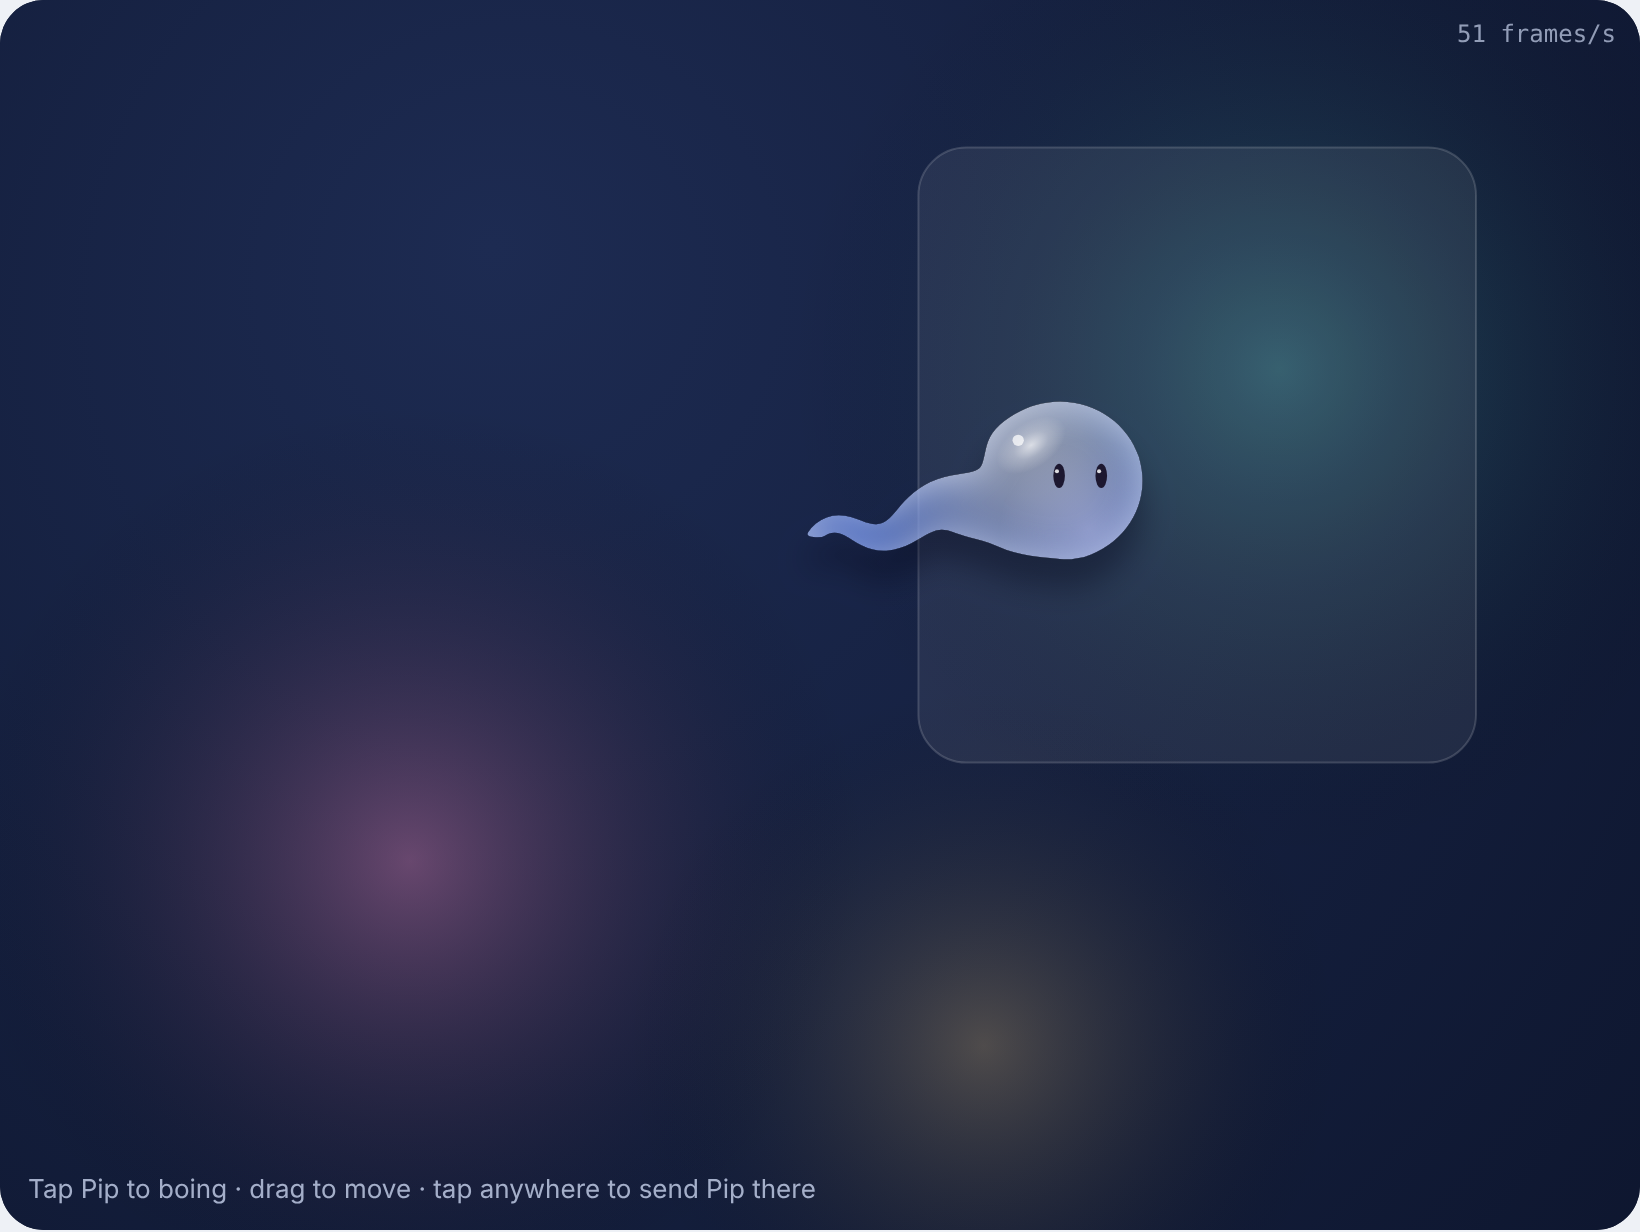
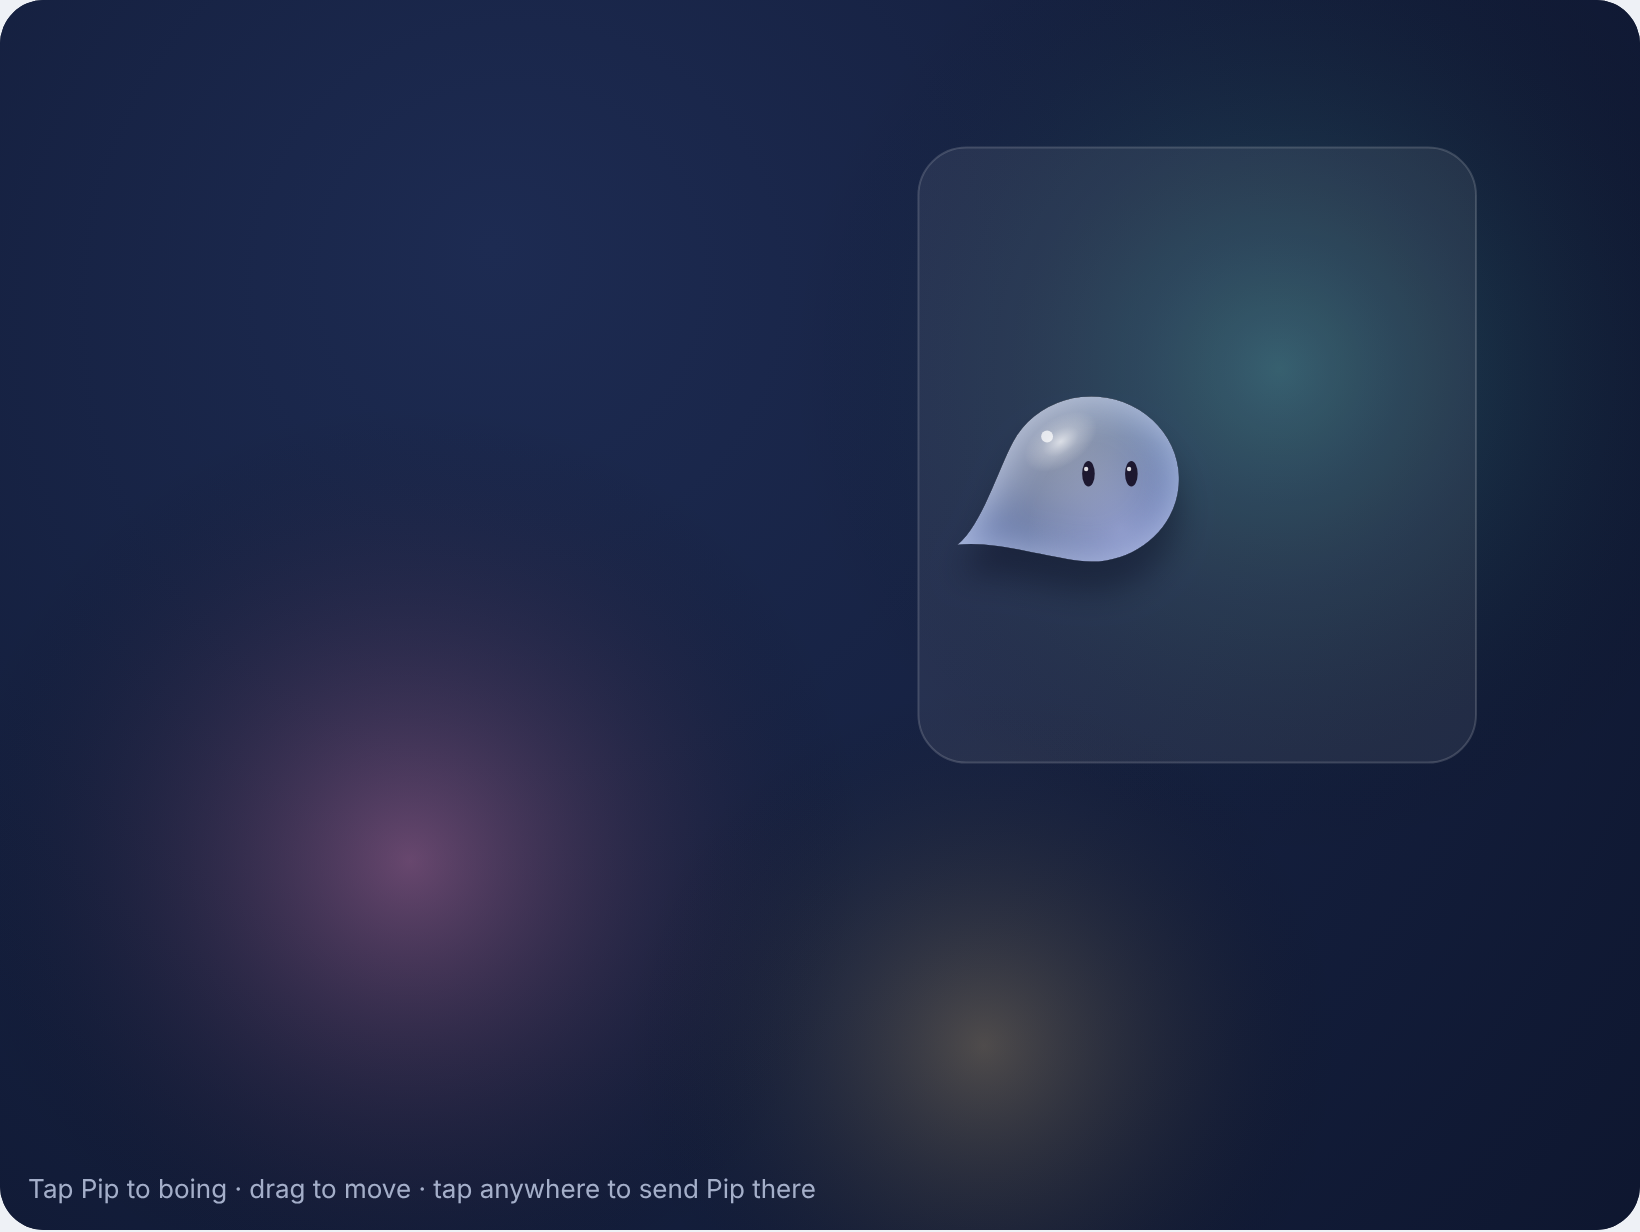
Pip teardrop: just a clean teardrop, fewer dials (Aaron: don't overcomplicate it)
Claude-Session: https://claude.ai/code/session_01Fk5mX8SBdThAyaXsRCBZu6

Changed region(s): [[0.4976, 0.3084, 0.7463, 0.4627], [0.9329, 0.0, 0.964, 0.0308]]

diff --git a/app/design/pip-blob-workshop.html b/app/design/pip-blob-workshop.html
@@ -3,7 +3,7 @@
 <head>
 <meta charset="utf-8">
 <meta name="viewport" content="width=device-width, initial-scale=1, viewport-fit=cover">
-<title>Pip Blob Workshop</title>
+<title>Pip Teardrop</title>
 <style>
 /* A night-sky stage where Pip floats over a frosted panel, with a column of dials beside it (stacks on phones). */
 :root{
@@ -42,8 +42,8 @@ pre{margin:0;font-size:12px;background:var(--bg);border:1px solid var(--line);bo
 <body>
 <div class="wrap">
   <header>
-    <h1>Pip Blob Workshop</h1>
-    <p>Pip as a soft glass blob with a trailing tail, and no wings. The character comes from the shape, the material and the way they move. Turn the dials until it feels like Pip, then copy your picks for the team.</p>
+    <h1>Pip Teardrop</h1>
+    <p>Pip as a soft glass teardrop. No wings, no extras: the character comes from the shape, the glass and the way they move. The point trails behind as Pip floats. Turn the dials until it feels like Pip, then copy your picks for the team.</p>
   </header>
   <div class="main">
     <div class="stage">
@@ -54,15 +54,12 @@ pre{margin:0;font-size:12px;background:var(--bg);border:1px solid var(--line);bo
     <aside class="side">
       <div class="group"><h2>Start from</h2><div class="row" id="presets"></div></div>
       <div class="group"><h2>Shape</h2><div class="group" id="gShape"></div></div>
-      <div class="group"><h2>Tail</h2><div class="group" id="gTail"></div></div>
       <div class="group"><h2>Movement</h2><div class="group" id="gMove"></div></div>
       <div class="group"><h2>Glass</h2><div class="group" id="gGlass"></div></div>
-      <div class="group"><h2>Eyes</h2><div class="group" id="gEyes"></div></div>
       <div class="group"><h2>Try</h2>
         <div class="row">
           <button id="tFollow" aria-pressed="false">Follow my finger</button>
           <button id="tRest" aria-pressed="false">Resting</button>
-          <button id="tBead" aria-pressed="false">Tail bead</button>
           <button id="tSimple" aria-pressed="false">Simpler motion</button>
         </div></div>
       <div class="group"><h2>Your picks</h2>
@@ -75,29 +72,24 @@ pre{margin:0;font-size:12px;background:var(--bg);border:1px solid var(--line);bo
 (() => {
 // ---------- Data: every dial, with its group, range and default ----------
 const DIALS = [
-  ["size",    "gShape", "Size",            20, 70, 1,    40],
-  ["drop",    "gShape", "Teardrop",        0.3, 0.95, 0.01, 0.72],
-  ["tail",    "gTail",  "Tail length",     0.5, 4, 0.05, 2.4],
-  ["taper",   "gTail",  "Taper",           0.6, 2.5, 0.05, 1.35],
-  ["tilt",    "gTail",  "Tail hangs (°)",  0, 180, 1,    72],
-  ["floppy",  "gTail",  "Floppiness",      0, 1, 0.01,   0.55],
-  ["wiggle",  "gTail",  "Wiggle",          0, 1, 0.01,   0.35],
+  ["size",    "gShape", "Size",            20, 70, 1,    42],
+  ["tail",    "gShape", "Point length",    0.3, 1.4, 0.05, 0.75],
+  ["floppy",  "gMove",  "Point follows",   0, 1, 0.01,   0.5],
   ["float",   "gMove",  "Float",           0, 1, 0.01,   0.5],
   ["bounce",  "gMove",  "Springiness",     0, 1, 0.01,   0.4],
   ["squash",  "gMove",  "Squash",          0, 1, 0.01,   0.45],
   ["hue",     "gGlass", "Tint",            0, 360, 1,    224],
   ["clear",   "gGlass", "Glassiness",      0, 1, 0.01,   0.55],
   ["shine",   "gGlass", "Shine",           0, 1, 0.01,   0.8],
-  ["eyeGap",  "gEyes",  "Eye spacing",     0.15, 0.6, 0.01, 0.34],
-  ["eyeSize", "gEyes",  "Eye size",        0.08, 0.26, 0.005, 0.15],
 ];
+// Held still for now (Aaron: "just a teardrop, don't overcomplicate it").
+const FIXED = {drop: 0.9, taper: 1.15, tip: 0.07, tilt: 90, curl: 0, wiggle: 0.08, eyeGap: 0.32, eyeSize: 0.15};
 const PRESETS = {
   "Calm":   {},
-  "Lively": {float:0.85, bounce:0.75, squash:0.7, wiggle:0.6, floppy:0.35},
-  "Sleepy": {float:0.25, bounce:0.15, squash:0.2, wiggle:0.15, floppy:0.8, tail:2.0},
-  "Squiggle": {tail:3.6, taper:1.0, wiggle:0.8, floppy:0.3, drop:0.55},
+  "Lively": {float:0.85, bounce:0.75, squash:0.7, floppy:0.35},
+  "Sleepy": {float:0.25, bounce:0.15, squash:0.2, floppy:0.8},
 };
-const P = {}; for (const d of DIALS) P[d[0]] = d[6];
+const P = {...FIXED}; for (const d of DIALS) P[d[0]] = d[6];
 const T = {follow:false, rest:false, bead:false, simple: matchMedia("(prefers-reduced-motion: reduce)").matches};
 
 // ---------- Dials UI ----------
@@ -124,11 +116,10 @@ function toggle(id, key) {
   const paint = () => { b.classList.toggle("on", T[key]); b.setAttribute("aria-pressed", T[key]); };
   b.onclick = () => { T[key] = !T[key]; paint(); writePicks(); }; paint();
 }
-toggle("tFollow", "follow"); toggle("tRest", "rest"); toggle("tBead", "bead"); toggle("tSimple", "simple");
+toggle("tFollow", "follow"); toggle("tRest", "rest"); toggle("tSimple", "simple");
 function writePicks() {
   const picks = {}; for (const d of DIALS) picks[d[0]] = +Number(P[d[0]]).toFixed(3);
-  picks.bead = T.bead;
-  document.getElementById("out").textContent = "FOR JULES · Pip blob picks\n" + JSON.stringify(picks);
+  document.getElementById("out").textContent = "FOR JULES · Pip teardrop picks\n" + JSON.stringify(picks);
 }
 document.getElementById("copy").onclick = async (e) => {
   try { await navigator.clipboard.writeText(document.getElementById("out").textContent); e.target.textContent = "Copied ✓"; }
@@ -163,13 +154,13 @@ function resize() {
 
 // ---------- Pip's state ----------
 const pos = {x: 0, y: 0}, vel = {x: 0, y: 0}, home = {x: 0, y: 0};
-const N = 28; let tail = [];
+const N = 8; let tail = [];
 let kick = 0, look = {x: 0, y: 0}, blinkAt = 2, blinkT = -1, pointer = null, grab = null, t = 0, last = 0;
 const v = (x, y) => ({x, y}), len = (a) => Math.hypot(a.x, a.y);
 const norm = (a) => { const l = len(a) || 1; return v(a.x / l, a.y / l); };
-function restDir() { const a = P.tilt * Math.PI / 180; return v(Math.cos(a), Math.sin(a)); }
-function seg() { return P.size * (1 + P.tail) / N; }
-function resetTail() { const d = restDir(); tail = []; for (let i = 0; i <= N; i++) tail.push(v(pos.x + d.x * seg() * i, pos.y + d.y * seg() * i)); }
+function restDir(i = 0) { const a = (P.tilt + P.curl * 110 * i / N) * Math.PI / 180; return v(Math.cos(a), Math.sin(a)); }
+function seg() { return P.size * (1 + P.tail) / N; }  // centre to point
+function resetTail() { tail = [v(pos.x, pos.y)]; for (let i = 1; i <= N; i++) { const d = restDir(i), p = tail[i - 1]; tail.push(v(p.x + d.x * seg(), p.y + d.y * seg())); } }
 
 // ---------- Logic: one step of movement ----------
 function step(dt) {
@@ -188,11 +179,11 @@ function step(dt) {
     pos.x += vel.x * dt; pos.y += vel.y * dt;
   }
   // Tail: each bead follows the one before at a fixed distance, hangs toward its rest direction, and wiggles.
-  const s = seg(), rd = restDir(), speed = len(vel);
+  const s = seg(), speed = len(vel);
   const pull = (.04 + (1 - P.floppy) * .22) * dt * 60;
   tail[0] = v(pos.x, pos.y);
   for (let i = 1; i <= N; i++) {
-    const p = tail[i - 1], c = tail[i];
+    const p = tail[i - 1], c = tail[i], rd = restDir(i);
     let d = v(c.x - p.x, c.y - p.y); const dn = norm(d);
     const wig = simple ? 0 : P.wiggle * Math.sin(t * (T.rest ? 1.2 : 2.4) - i * .5) * (i / N) * (.25 + Math.min(speed / 300, 1)) * .9;
     d = v(dn.x + rd.x * pull - dn.y * wig, dn.y + rd.y * pull + dn.x * wig);
@@ -210,49 +201,35 @@ function step(dt) {
   if (blinkT >= 0) { blinkT += dt; if (blinkT > .16) blinkT = -1; }
 }
 
-// ---------- The shape: one tube with a smooth radius, from the nose through the body to the tail tip ----------
-function smax(a, b, k) { const h = Math.max(k - Math.abs(a - b), 0) / k; return Math.max(a, b) + h * h * k * .25; }
+// ---------- The shape: a clean teardrop. A circle, and two smooth curves out to the point. ----------
+// The point sits at the end of a short chain that trails behind, so it leans and follows as Pip moves.
 function outline() {
   const breathe = T.simple ? 1 : 1 + .018 * Math.sin(t * 1.6);
-  const R = P.size * breathe, total = P.size * (1 + P.tail);
-  const back = norm(v(tail[2].x - pos.x, tail[2].y - pos.y)), fwd = v(-back.x, -back.y);
-  const spine = [];                       // {p, n, r}
-  const radius = (d) => {
-    const circ = Math.sqrt(Math.max(0, R * R - d * d));
-    if (d < 0) return circ;
-    const tl = P.drop * R * Math.pow(Math.max(0, 1 - d / total), P.taper);
-    return Math.max(.6, smax(circ, tl, R * .35));
-  };
-  const nrm = (dir) => v(-dir.y, dir.x);
-  for (let k = 0; k < 10; k++) {          // the nose cap, sampled closely where it curves most
-    const th = k / 10 * Math.PI / 2, d = -R * Math.cos(th);
-    spine.push({p: v(pos.x + back.x * d, pos.y + back.y * d), n: nrm(back), r: radius(d)});
-  }
-  for (let i = 0; i <= N; i++) {
-    const a = tail[Math.max(0, i - 1)], b = tail[Math.min(N, i + 1)];
-    const dir = i === 0 ? back : norm(v(b.x - a.x, b.y - a.y));
-    spine.push({p: tail[i], n: nrm(dir), r: radius(i * seg())});
-  }
-  spine[0].r = 0;
-  const left = spine.map(s => v(s.p.x + s.n.x * s.r, s.p.y + s.n.y * s.r));
-  const right = spine.map(s => v(s.p.x - s.n.x * s.r, s.p.y - s.n.y * s.r)).reverse();
-  let pts = left.concat(right.slice(1));
-  // Squash and stretch along the way Pip moves (and after a boing), strongest at the body, none down the tail.
-  const sp = len(vel), u = sp > 1 ? v(vel.x / sp, vel.y / sp) : v(0, 1);
-  let s = T.simple ? 0 : Math.min(sp / 700, 1) * P.squash * .28 - kick * P.squash;
-  s = Math.max(-.3, Math.min(.35, s));
-  if (Math.abs(s) > .002) pts = pts.map(q => {
-    const dx = q.x - pos.x, dy = q.y - pos.y, w = Math.max(0, 1 - Math.hypot(dx, dy) / (P.size * 1.7));
-    const a = dx * u.x + dy * u.y, b = -dx * u.y + dy * u.x;
-    const a2 = a * (1 + s * w), b2 = b / (1 + s * w);
-    return v(pos.x + a2 * u.x - b2 * u.y, pos.y + a2 * u.y + b2 * u.x);
-  });
-  // A smooth path through the points (midpoint curves), so no corners anywhere.
-  const path = new Path2D(), n = pts.length, mid = (a, b) => v((a.x + b.x) / 2, (a.y + b.y) / 2);
-  let m = mid(pts[n - 1], pts[0]); path.moveTo(m.x, m.y);
-  for (let i = 0; i < n; i++) { const c = pts[i], nm = mid(c, pts[(i + 1) % n]); path.quadraticCurveTo(c.x, c.y, nm.x, nm.y); }
-  path.closePath();
-  return {path, R, fwd};
+  const R = P.size * breathe, tip = tail[N], mid = tail[N >> 1];
+  let D = Math.hypot(tip.x - pos.x, tip.y - pos.y); const u = norm(v(tip.x - pos.x, tip.y - pos.y));
+  D = Math.max(D, R * 1.08);
+  const tp = v(pos.x + u.x * D, pos.y + u.y * D);           // the point
+  const al = Math.acos(R / D), th = Math.atan2(u.y, u.x);
+  const a1 = th + al, a2 = th - al + Math.PI * 2;           // where the curves leave the circle
+  const P1 = v(pos.x + Math.cos(a1) * R, pos.y + Math.sin(a1) * R);
+  const P2 = v(pos.x + Math.cos(a2) * R, pos.y + Math.sin(a2) * R);
+  const t1 = v(-Math.sin(a1), Math.cos(a1)), t2 = v(-Math.sin(a2), Math.cos(a2));   // the circle's direction there
+  const k = (D - R) * .55, bend = (side) => v(mid.x + (side.x - pos.x) * .25, mid.y + (side.y - pos.y) * .25);
+  const raw = new Path2D();
+  raw.moveTo(P1.x, P1.y);
+  raw.arc(pos.x, pos.y, R, a1, a2);
+  const b2 = bend(P2), b1 = bend(P1);
+  raw.bezierCurveTo(P2.x + t2.x * k, P2.y + t2.y * k, (b2.x + tp.x) / 2, (b2.y + tp.y) / 2, tp.x, tp.y);
+  raw.bezierCurveTo((b1.x + tp.x) / 2, (b1.y + tp.y) / 2, P1.x - t1.x * k, P1.y - t1.y * k, P1.x, P1.y);
+  raw.closePath();
+  // Squash and stretch along the way Pip moves (and after a boing).
+  const sp = len(vel), dir = sp > 1 ? v(vel.x / sp, vel.y / sp) : v(0, 1);
+  let s = T.simple ? 0 : Math.min(sp / 700, 1) * P.squash * .22 - kick * P.squash * .8;
+  s = Math.max(-.28, Math.min(.3, s));
+  const ang = Math.atan2(dir.y, dir.x);
+  const m = new DOMMatrix().translate(pos.x, pos.y).rotate(ang * 180 / Math.PI).scale(1 + s, 1 / (1 + s)).rotate(-ang * 180 / Math.PI).translate(-pos.x, -pos.y);
+  const path = new Path2D(); path.addPath(raw, m);
+  return {path, R};
 }
 
 // ---------- Draw ----------
